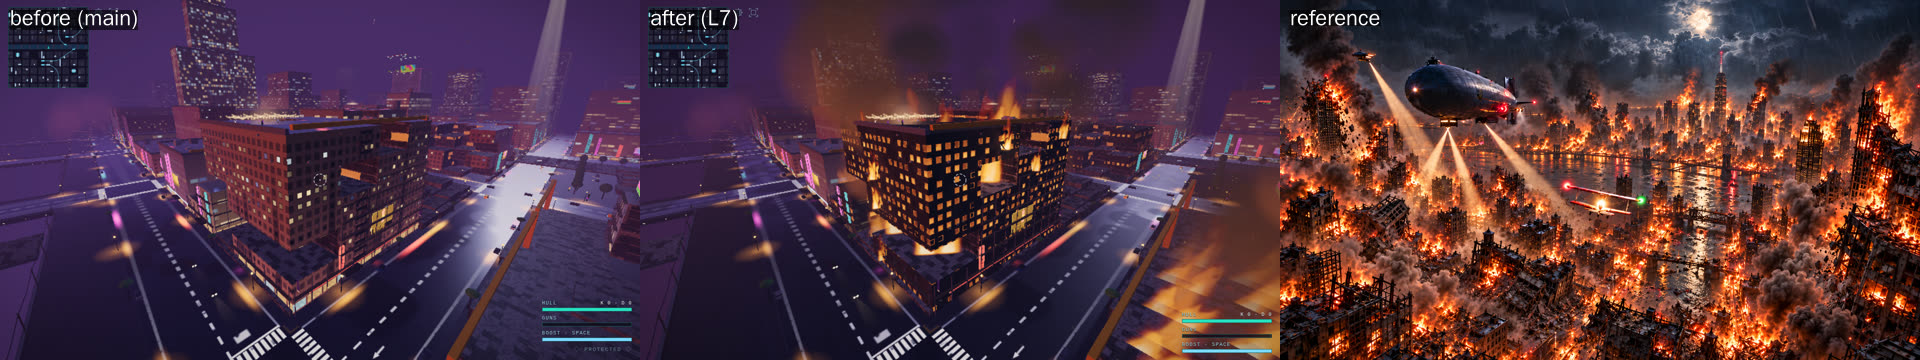
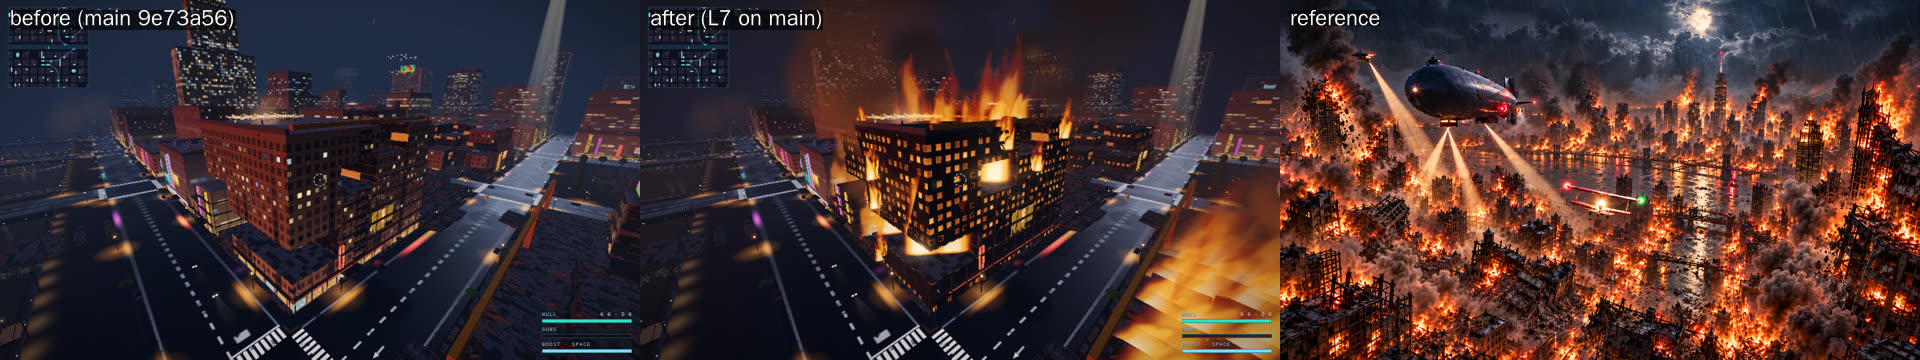
docs(L7): re-shoot the reference and gutted sheets on L1's sky

diff --git a/docs/stormlit/l7/README.md b/docs/stormlit/l7/README.md
@@ -1,8 +1,11 @@
 # L7 Inferno — before / after / reference
 
-Each sheet is **before (main) | after (L7) | the matching reference**:
-reference 1 (*Stormlit Manhattan*) for `reference-hero`, reference 2
-(*Apocalyptic City Under Fire*) for everything else.
+Each sheet is **before (main) | after (L7) | the matching reference**.
+`reference-hero`, `reference-inferno` and `inferno-gutted` were re-shot after
+L1 (the storm sky, grade and fog) landed: main `9e73a56` against this branch
+merged onto it. The rest are from before that merge (main `56f6197`). The
+reference is reference 1 (*Stormlit Manhattan*) for `reference-hero` and
+reference 2 (*Apocalyptic City Under Fire*) for everything else.
 
 | sheet | what it shows |
 | --- | --- |
@@ -18,8 +21,8 @@ reference 1 (*Stormlit Manhattan*) for `reference-hero`, reference 2
 
 GPU-less Linux box, SwiftShader, render scale 0.75, every view pinned to one
 world instant (`__ab.pinWorld(1 790 000 000 000)`), clear weather, the plane
-held at its pose each frame, both builds — main at `56f6197` and this branch
-on top of it (before D10 merged in) — shot with the same tool. The server ran with
+held at its pose each frame, main and this branch shot with the same tool
+in the same session. The server ran with
 `AB_QUIET_CITY=1` and raised `LIVENESS_TIMEOUT_MS` / `?silence=` — at
 0.3–0.5 fps a slow page is otherwise dropped and its resume's welcome wipes
 the staged destruction mid-capture. On this box the carrier's staging
